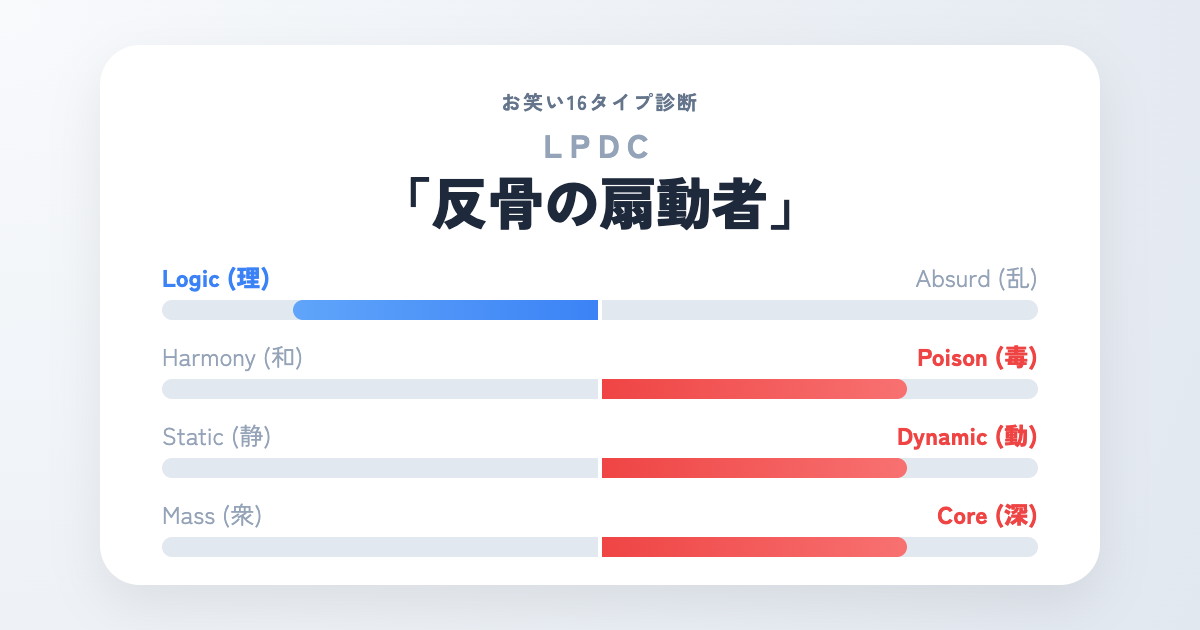
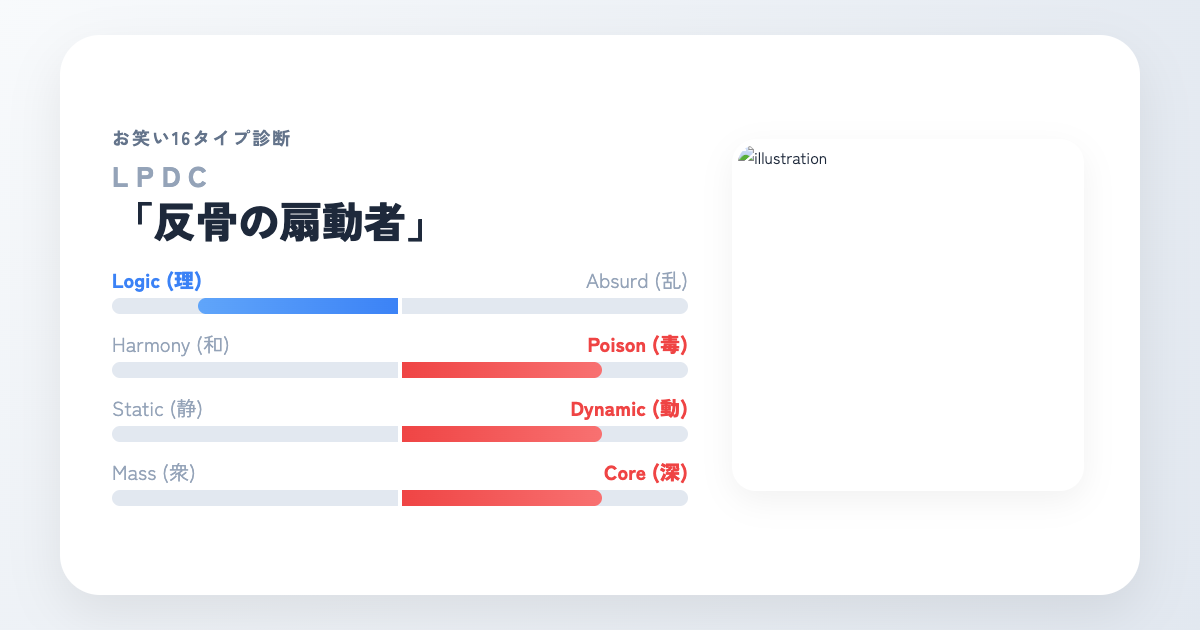
診断結果とOGPに動物イラストを追加しレイアウトを更新

Changed region(s): [[0.0617, 0.0302, 0.9558, 0.9651], [0.0925, 0.2111, 0.6783, 0.3921], [0.4008, 0.1508, 0.5858, 0.181]]

diff --git a/generate_ogps.js b/generate_ogps.js
@@ -21,6 +21,13 @@ const typesDB = {
     "APSC": "深淵を覗く者"
 };
 
+const illustrationMap = {
+    "LHDM": "lhdm.png", "LHDC": "lhdc.png", "LHSM": "lhsm.png", "LHSC": "lhsc.png",
+    "LPDM": "lpdm.png", "LPDC": "lpdc.png", "LPSM": "lpsm.png", "LPSC": "lpsc.png",
+    "AHDM": "ahdm.png", "AHDC": "ahdc.png", "AHSM": "ahsm.png", "AHSC": "ahsc.png",
+    "APDM": "lpdm.png", "APDC": "lpsc.png", "APSM": "lpsm.png", "APSC": "ahsm.png"
+};
+
 const labels = {
     "LA": ["Logic (理)", "Absurd (乱)"],
     "HP": ["Harmony (和)", "Poison (毒)"],
@@ -34,6 +41,10 @@ if (!fs.existsSync(ogpDir)) {
 }
 
 function generateHTML(typeCode, typeName) {
+    const illustrationFile = illustrationMap[typeCode];
+    const absPath = path.resolve(__dirname, 'images', 'illustrations', illustrationFile);
+    const imgUrl = `file://${absPath}`;
+
     const barsHTML = [
         { axis: "LA", val: typeCode[0] },
         { axis: "HP", val: typeCode[1] },
@@ -52,8 +63,8 @@ function generateHTML(typeCode, typeName) {
         return `
         <div class="row">
             <div class="labels">
-                <span style="color: ${isLeft ? activeColorLeft : passiveColor}; font-weight: ${isLeft ? '800' : '400'}; font-size: 24px;">${lblLeft}</span>
-                <span style="color: ${!isLeft ? activeColorRight : passiveColor}; font-weight: ${!isLeft ? '800' : '400'}; font-size: 24px;">${lblRight}</span>
+                <span style="color: ${isLeft ? activeColorLeft : passiveColor}; font-weight: ${isLeft ? '800' : '400'}; font-size: 20px;">${lblLeft}</span>
+                <span style="color: ${!isLeft ? activeColorRight : passiveColor}; font-weight: ${!isLeft ? '800' : '400'}; font-size: 20px;">${lblRight}</span>
             </div>
             <div class="bar-bg">
                 <div class="center-line"></div>
@@ -87,36 +98,51 @@ function generateHTML(typeCode, typeName) {
             }
             .card {
                 background: #ffffff;
-                width: 1000px;
-                height: 540px;
+                width: 1080px;
+                height: 560px;
                 border-radius: 40px;
                 box-shadow: 0 20px 50px rgba(0,0,0,0.08);
                 display: flex;
-                flex-direction: column;
-                padding: 40px 60px;
+                flex-direction: row;
+                padding: 40px 50px;
                 box-sizing: border-box;
                 border: 2px solid #fff;
+                gap: 40px;
+                align-items: center;
+            }
+            .left-col {
+                flex: 1;
+                display: flex;
+                flex-direction: column;
+                justify-content: center;
+                width: 540px;
+            }
+            .right-col {
+                width: 360px;
+                display: flex;
+                justify-content: center;
+                align-items: center;
             }
             .header {
-                text-align: center;
-                margin-bottom: 25px;
+                text-align: left;
+                margin-bottom: 20px;
             }
             .site-title {
-                font-size: 20px;
+                font-size: 18px;
                 color: #64748b;
                 font-weight: 700;
                 letter-spacing: 2px;
                 margin-bottom: 5px;
             }
             .type-code {
-                font-size: 32px;
+                font-size: 28px;
                 letter-spacing: 8px;
                 color: #94a3b8;
                 font-weight: 900;
                 margin-bottom: 0px;
             }
             .type-title {
-                font-size: 56px;
+                font-size: 42px;
                 font-weight: 900;
                 color: #1e293b;
                 line-height: 1.2;
@@ -124,7 +150,7 @@ function generateHTML(typeCode, typeName) {
             .charts {
                 display: flex;
                 flex-direction: column;
-                gap: 18px;
+                gap: 15px;
             }
             .row {
                 width: 100%;
@@ -132,14 +158,14 @@ function generateHTML(typeCode, typeName) {
             .labels {
                 display: flex;
                 justify-content: space-between;
-                margin-bottom: 6px;
+                margin-bottom: 4px;
                 align-items: flex-end;
             }
             .bar-bg {
                 width: 100%;
-                height: 20px;
+                height: 16px;
                 background: #e2e8f0;
-                border-radius: 10px;
+                border-radius: 8px;
                 position: relative;
             }
             .center-line {
@@ -159,7 +185,7 @@ function generateHTML(typeCode, typeName) {
                 bottom: 0;
                 width: 35%;
                 background: linear-gradient(90deg, #60a5fa, #3b82f6);
-                border-radius: 10px 0 0 10px;
+                border-radius: 8px 0 0 8px;
                 z-index: 1;
             }
             .fill-right {
@@ -169,20 +195,34 @@ function generateHTML(typeCode, typeName) {
                 bottom: 0;
                 width: 35%;
                 background: linear-gradient(90deg, #ef4444, #f87171);
-                border-radius: 0 10px 10px 0;
+                border-radius: 0 8px 8px 0;
                 z-index: 1;
+            }
+            .illustration {
+                width: 340px;
+                height: 340px;
+                object-fit: cover;
+                border-radius: 24px;
+                box-shadow: 0 10px 30px rgba(0, 0, 0, 0.05);
+                border: 6px solid #ffffff;
+                background: #ffffff;
             }
         </style>
     </head>
     <body>
         <div class="card">
-            <div class="header">
-                <div class="site-title">お笑い16タイプ診断</div>
-                <div class="type-code">${typeCode}</div>
-                <div class="type-title">「${typeName}」</div>
+            <div class="left-col">
+                <div class="header">
+                    <div class="site-title">お笑い16タイプ診断</div>
+                    <div class="type-code">${typeCode}</div>
+                    <div class="type-title">「${typeName}」</div>
+                </div>
+                <div class="charts">
+                    ${barsHTML}
+                </div>
             </div>
-            <div class="charts">
-                ${barsHTML}
+            <div class="right-col">
+                <img class="illustration" src="${imgUrl}" alt="illustration">
             </div>
         </div>
     </body>

diff --git a/index.html b/index.html
@@ -349,6 +349,29 @@
             padding-bottom: 80px;
         }
 
+        .result-illustration-container {
+            text-align: center;
+            margin: 15px auto 25px;
+            max-width: 320px;
+            width: 100%;
+            display: flex;
+            justify-content: center;
+        }
+
+        .result-illustration {
+            width: 100%;
+            height: auto;
+            border-radius: 24px;
+            box-shadow: 0 10px 30px rgba(0, 0, 0, 0.06);
+            border: 6px solid #ffffff;
+            background: #ffffff;
+            transition: transform 0.3s ease;
+        }
+
+        .result-illustration:hover {
+            transform: scale(1.02);
+        }
+
         .result-header-compact {
             text-align: center;
             margin-top: 15px;
@@ -610,6 +633,18 @@
 
         .lib-card:hover {
             transform: translateY(-2px);
+        }
+
+        .lib-illustration {
+            width: 80px;
+            height: 80px;
+            object-fit: cover;
+            border-radius: 12px;
+            margin: 8px auto;
+            display: block;
+            background: #f8fafc;
+            border: 2px solid #fff;
+            box-shadow: 0 4px 10px rgba(0, 0, 0, 0.04);
         }
 
         .lib-kanji {
@@ -1042,6 +1077,9 @@
             <div id="res-rarity"
                 style="text-align: center; font-size: 0.95rem; color: #64748b; font-weight: bold; margin-bottom: 25px; margin-top: -10px;">
             </div>
+            <div class="result-illustration-container">
+                <img class="result-illustration" id="res-illustration" src="" alt="タイプイラスト">
+            </div>
         </div>
 
         <div class="result-content">
@@ -1222,6 +1260,13 @@
             "H": { char: "和", color: "k-blue" }, "P": { char: "毒", color: "k-red" },
             "S": { char: "静", color: "k-blue" }, "D": { char: "動", color: "k-red" },
             "M": { char: "衆", color: "k-blue" }, "C": { char: "深", color: "k-red" }
+        };
+
+        const illustrationMap = {
+            "LHDM": "lhdm.png", "LHDC": "lhdc.png", "LHSM": "lhsm.png", "LHSC": "lhsc.png",
+            "LPDM": "lpdm.png", "LPDC": "lpdc.png", "LPSM": "lpsm.png", "LPSC": "lpsc.png",
+            "AHDM": "ahdm.png", "AHDC": "ahdc.png", "AHSM": "ahsm.png", "AHSC": "ahsc.png",
+            "APDM": "lpdm.png", "APDC": "lpsc.png", "APSM": "lpsm.png", "APSC": "ahsm.png"
         };
 
         const questions = [
@@ -1505,6 +1550,12 @@
             document.getElementById('res-ref').innerText = data.ref;
             document.getElementById('res-tags').innerHTML = data.tags.map(t => `<span class="tag">#${t}</span>`).join('');
 
+            // Set Illustration
+            const illustrationEl = document.getElementById('res-illustration');
+            if (illustrationEl && illustrationMap[typeKey]) {
+                illustrationEl.src = `/owarai/images/illustrations/${illustrationMap[typeKey]}`;
+            }
+
             // Compatibility
             const compatSection = document.getElementById('compat-section');
             const compatLogicSection = document.getElementById('compat-logic-section');
@@ -1653,7 +1704,7 @@
                 }
                 div.style.borderColor = borderColorVar;
 
-                div.innerHTML = `<span class="lib-kanji">${kanjiHTML}</span><span class="lib-name">${item.title}</span>`;
+                div.innerHTML = `<span class="lib-kanji">${kanjiHTML}</span><img class="lib-illustration" src="/owarai/images/illustrations/${illustrationMap[key]}" alt="${item.title}"><span class="lib-name">${item.title}</span>`;
                 div.onclick = () => { renderResults(key, null, true); };
                 grid.appendChild(div);
             });
